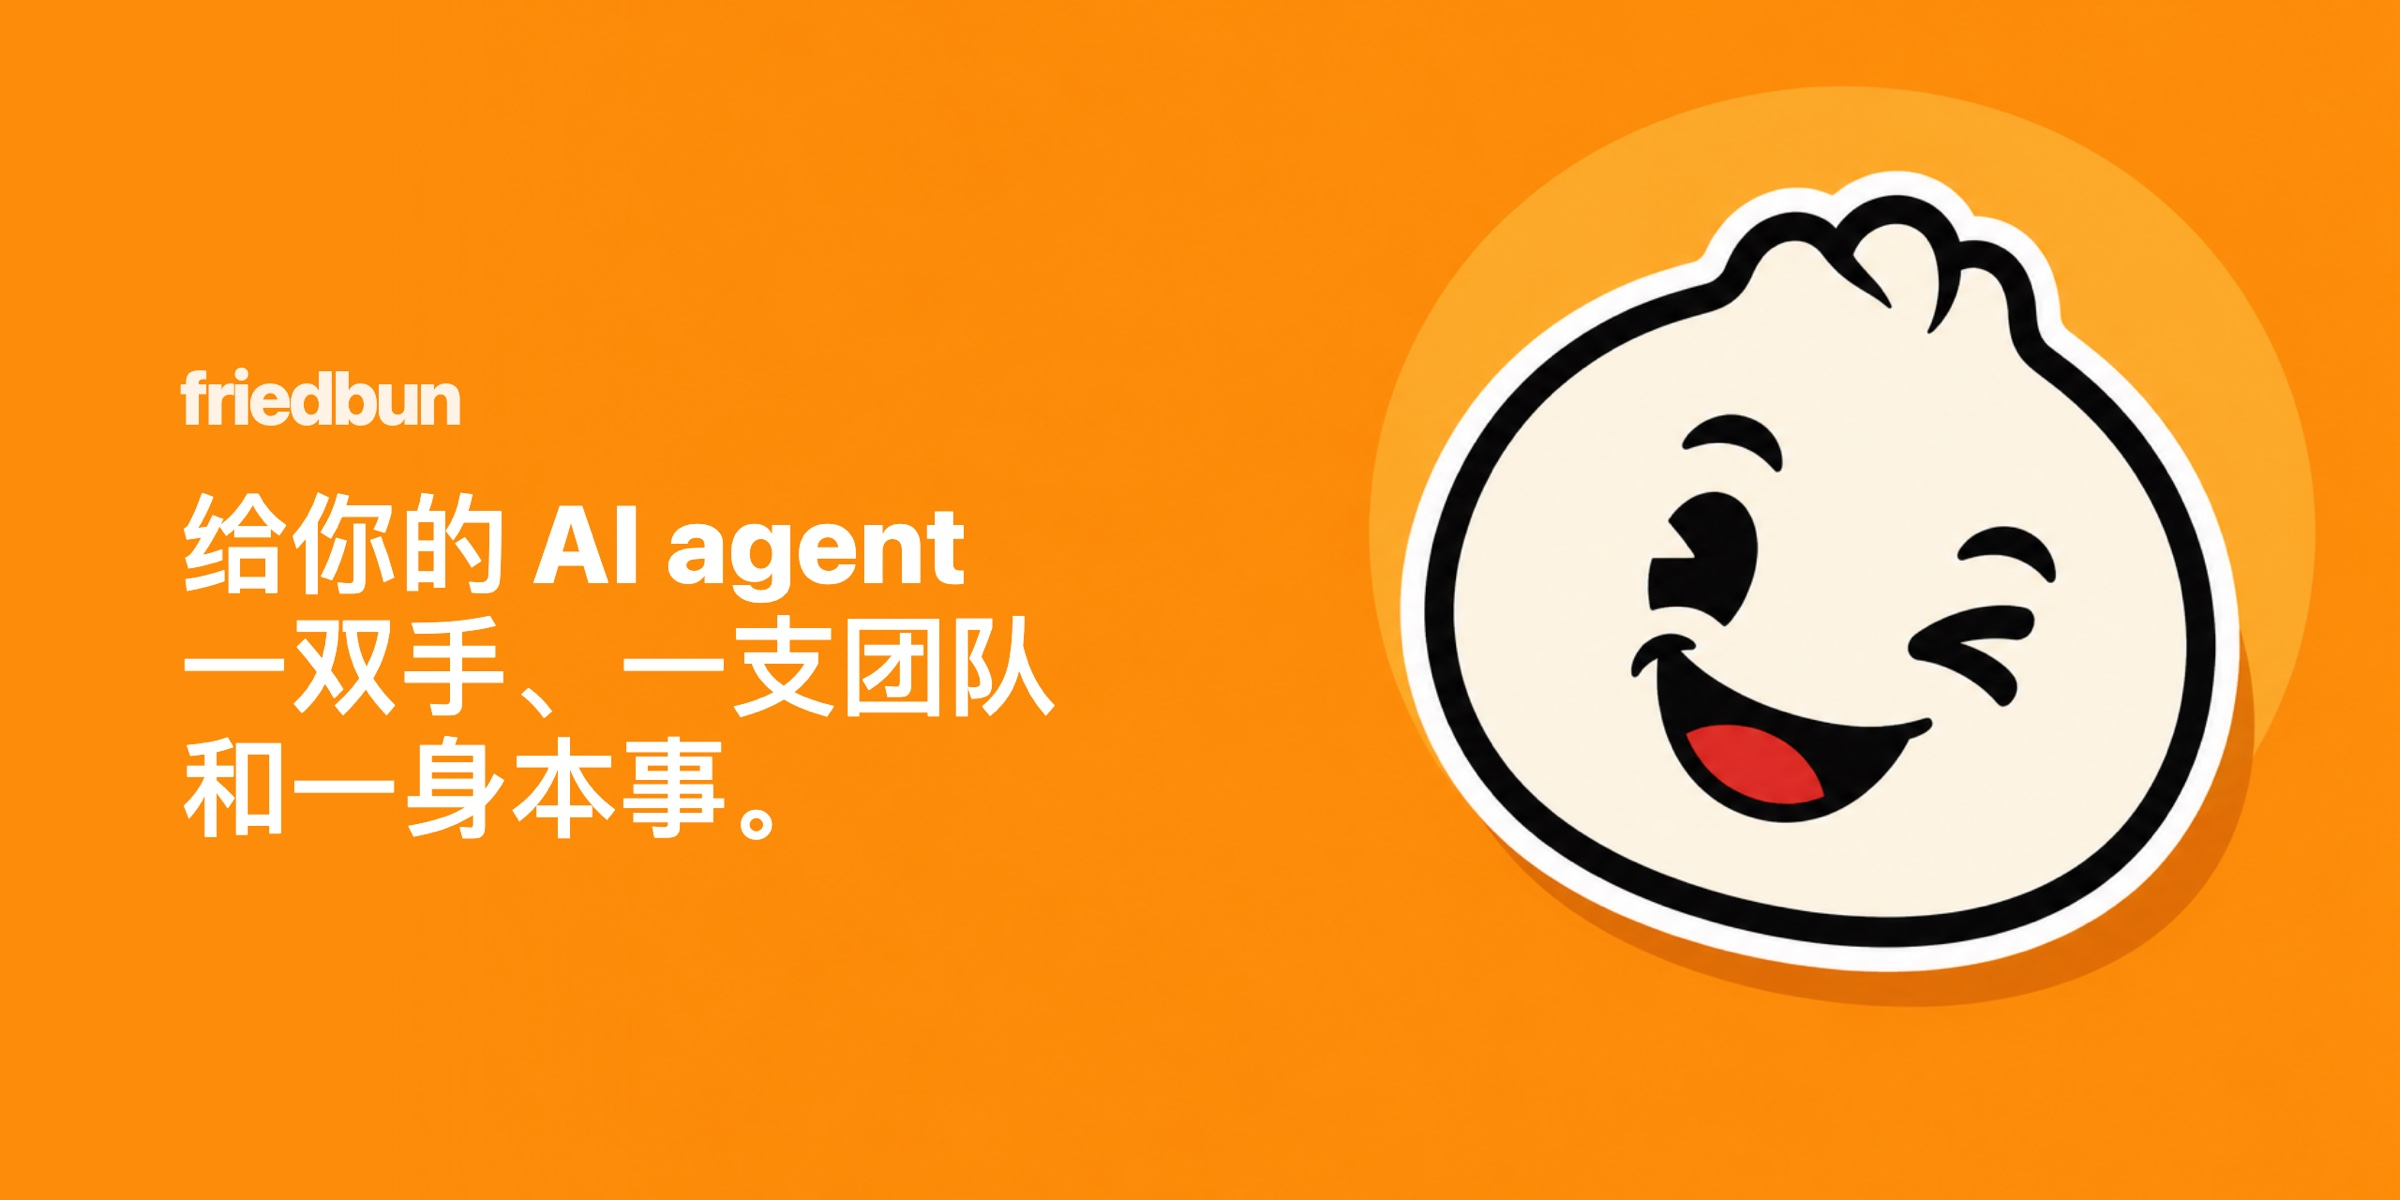
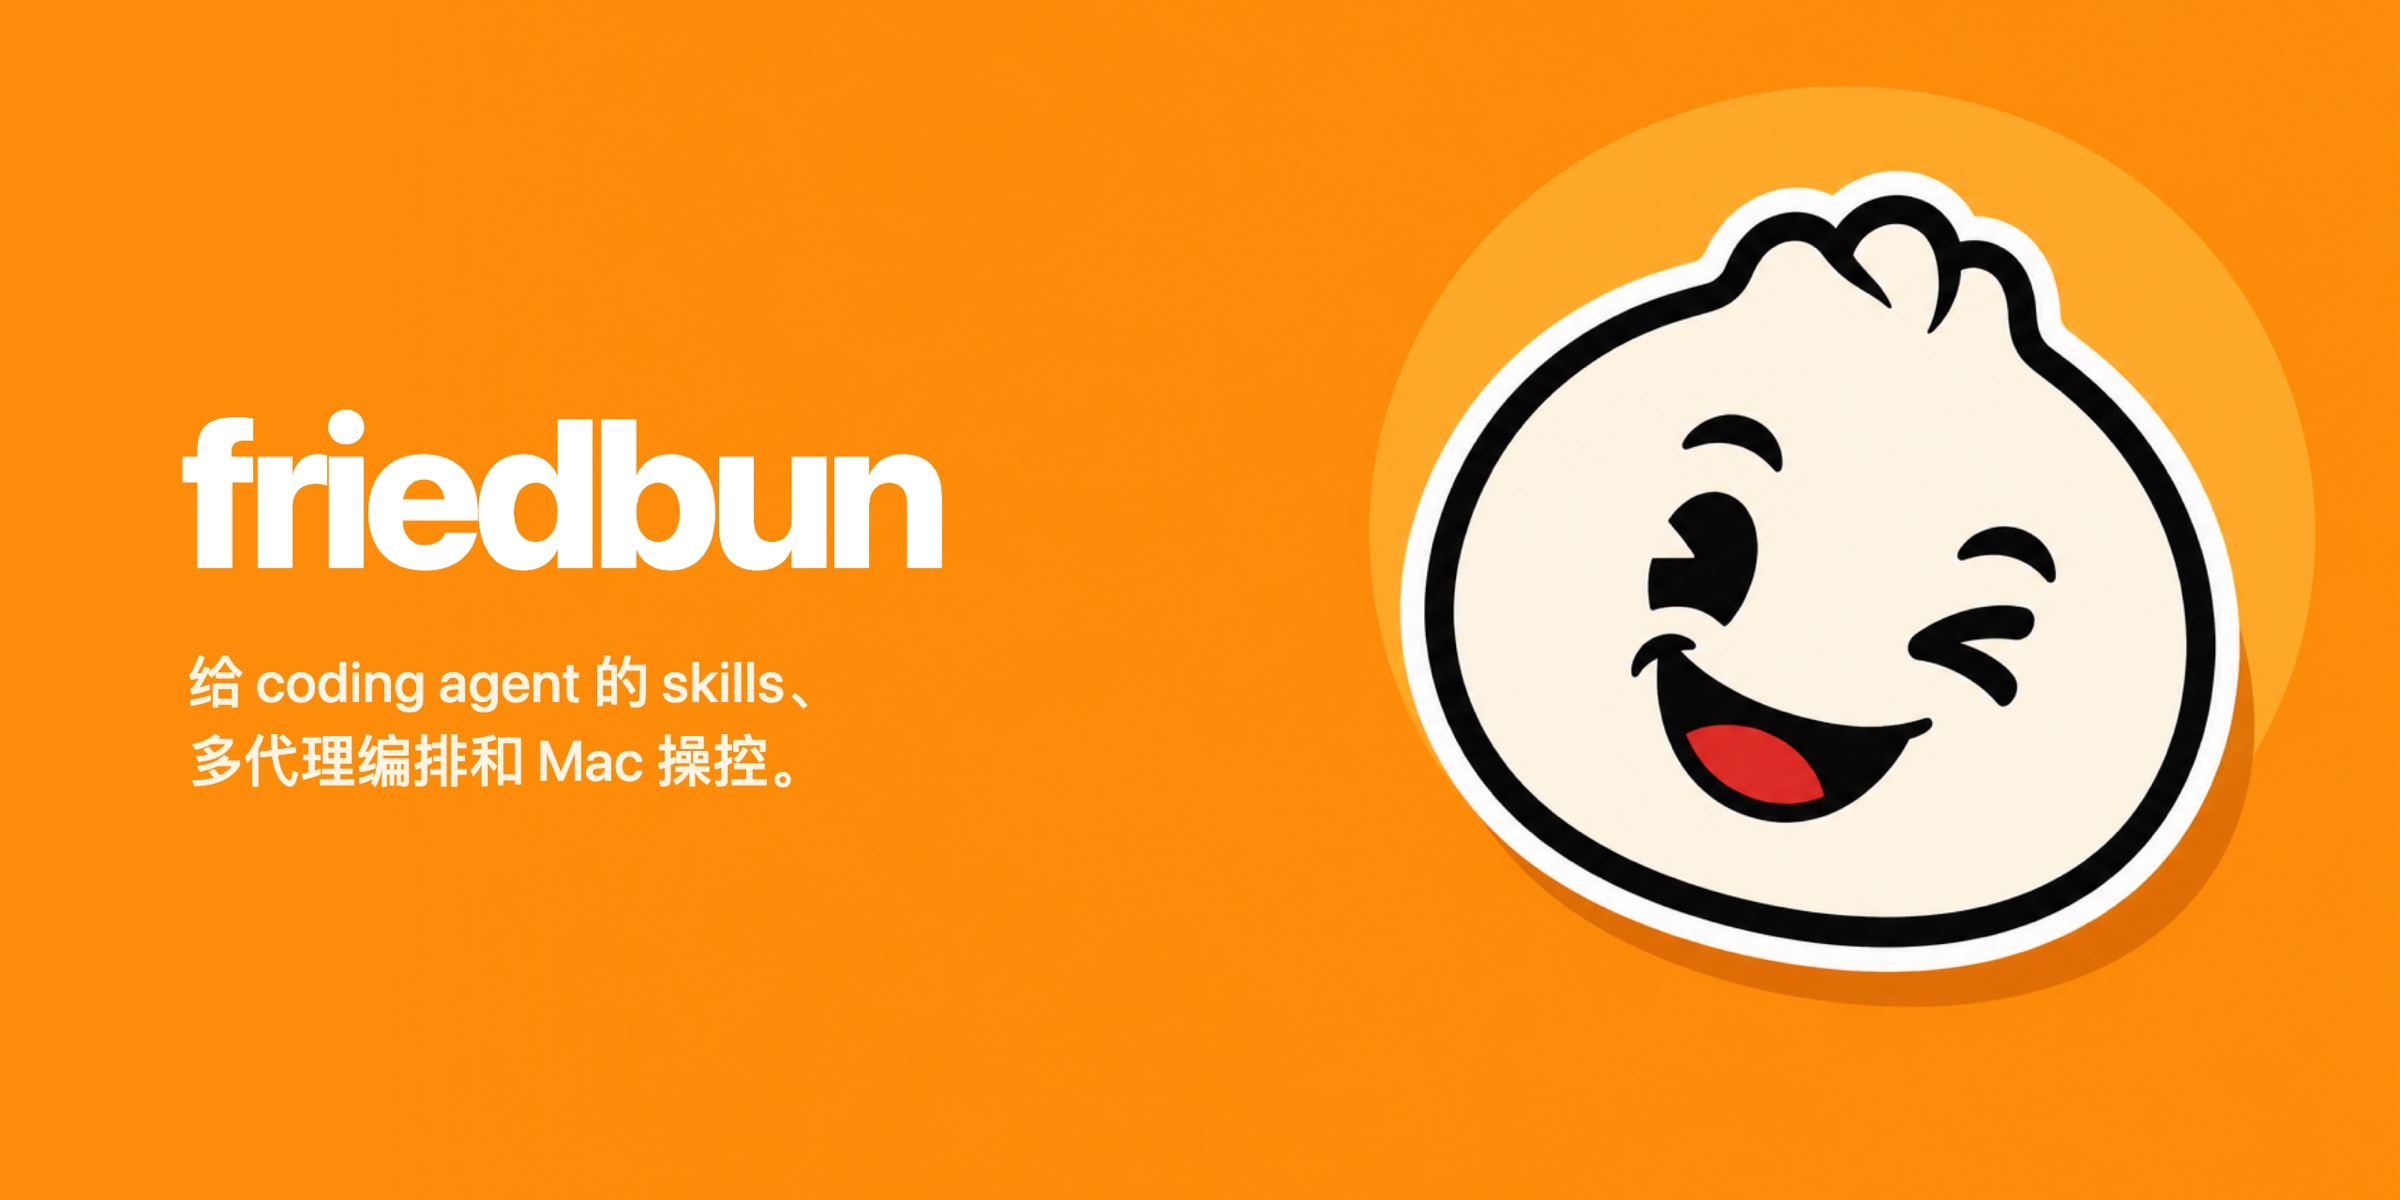
README：首屏 + 实际效果动图（bcu 操作计算器与文本编辑、FireCode）+ 按 skills 分组简介 + 折叠安装细节；头图换中性占位标题；bcu 动图改用系统自带应用重录

Changed region(s): [[0.0625, 0.3083, 0.4375, 0.7092]]

diff --git a/README.md b/README.md
@@ -1,49 +1,50 @@
-<p align="center"><img alt="friedbun — give your AI agent hands, a team and a playbook" src="assets/hero-en.jpg" width="100%"></p>
+<p align="center"><img alt="friedbun" src="assets/hero-en.jpg" width="100%"></p>
 
 <p align="center"><b>English</b> · <a href="README.zh-CN.md">中文</a></p>
 
-Skills, a multi-agent team and desktop control for your coding agent, set up from one link.
-
-**Just the skills**
+My coding-agent setup: 25 skills, multi-agent orchestration with FireCode, and an agent that can use Mac apps. Install just the skills, or let your agent set up the whole thing.
 
 ```bash
 npx skills add Suge8/friedbun
 ```
 
-**Everything** — paste this to your coding agent:
+For everything, paste this to your coding agent:
 
 ```text
 Clone https://github.com/Suge8/friedbun and set up this Mac by following its SETUP.md.
 ```
 
-## A playbook: 25 skills
+## In action
 
-<p align="center"><img alt="The 25 skills in six groups" src="assets/skills.jpg" width="100%"></p>
+The agent splits a dinner bill in Calculator and writes it down in TextEdit, using [bcu](https://github.com/Suge8/better-computer-use). The orange arrow is the agent's cursor. The whole clip runs in the background, and the real mouse doesn't move.
 
-Your agent picks up how I work: research from primary sources, write the failing test before the code, check UI against a taste guide, make images and demo GIFs like the ones on this page. Many of them kick in on their own when the task fits.
+<p align="center"><img alt="The agent's orange cursor works Calculator and TextEdit" src="assets/bcu-demo.gif" width="100%"></p>
 
-## A team: FireCode
+With [FireCode](https://github.com/Suge8/firecode), one agent hands work to several sub-agents running in parallel, each on its own model.
 
-<p align="center"><img alt="FireCode dispatching three sub-agents in parallel" src="https://raw.githubusercontent.com/Suge8/firecode/main/design/promo/hero.gif" width="100%"></p>
+<p align="center"><img alt="FireCode sending work to three sub-agents" src="https://raw.githubusercontent.com/Suge8/firecode/main/design/promo/hero.gif" width="100%"></p>
 
-One agent becomes a commander that hands work to sub-agents running in parallel, each on its own model. Several models review your change in parallel, and anything they fail goes straight back to be fixed. [FireCode on GitHub →](https://github.com/Suge8/firecode)
+## What's inside
 
-## Hands: bcu
+- **workflow**: research a question from primary sources, poke holes in a plan, build a change test-first, review a session afterwards.
+- **development**: tests, prototypes, architecture checks, sub-agent research, PR descriptions, releases.
+- **frontend**: a UI taste guide and a component picker.
+- **creative**: images, promo graphics and demo GIFs, product copy, social posts, video.
+- **operations**: use Mac apps (bcu) and the browser (better-browser-use), drive Herdr terminal panes, work on servers over SSH.
+- **web-search**: search the web and pull page text.
 
-<p align="center"><img alt="The bcu agent cursor scrolls a menu, picks an item, fills in a form and places an order in a Mac app" src="assets/bcu-demo.gif" width="100%"></p>
-
-Your agent clicks, types and scrolls through Mac apps by itself, so it can finish tasks in apps that have no API. It works in the background whenever the app allows, so your own mouse and keyboard stay yours. [bcu on GitHub →](https://github.com/Suge8/better-computer-use)
+Each skill is a folder under [`skills/`](skills). `workflow` started as a fork of [mattpocock/skills](https://github.com/mattpocock/skills).
 
 <details>
-<summary><b>Everything the setup installs</b></summary>
+<summary>What the full setup installs</summary>
 
-- **Coding agent**: [Pi](https://pi.dev) with FireCode, my settings, keybindings and model roles, plus `SYSTEM.md`, my system prompt. The prompt swaps in my tone and working habits, so your agent flags it first and you can skip it.
-- **Terminal**: [Herdr](https://herdr.dev) multiplexer, [Ghostty](https://ghostty.org), [Starship](https://starship.rs), fastfetch and a zsh snippet, all following the system light/dark theme.
-- **Desktop and web**: bcu, plus [agent-browser](https://github.com/vercel-labs/agent-browser) and [CloakBrowser](https://cloakbrowser.dev) in an isolated browser that never drives your everyday one.
-- **Skills**: [`skills/`](skills), linked to `~/.agents/skills`. `workflow` is forked from [mattpocock/skills](https://github.com/mattpocock/skills).
+- [Pi](https://pi.dev) coding agent with FireCode, my settings, keybindings and model roles, and my system prompt (`SYSTEM.md`). The prompt changes the agent's tone and habits, so your agent mentions it first and you can skip it.
+- Terminal: [Herdr](https://herdr.dev), [Ghostty](https://ghostty.org), [Starship](https://starship.rs), fastfetch and a zsh snippet.
+- bcu for Mac apps; [agent-browser](https://github.com/vercel-labs/agent-browser) and [CloakBrowser](https://cloakbrowser.dev) for the web, in a separate browser from the one you use.
+- The skills, linked to `~/.agents/skills`.
 
-Existing config files are backed up as `.bak` before anything changes. The agent stops for the steps only you can do: logging in, granting macOS permissions, pasting an API key. [SETUP.md](SETUP.md) lists every file it touches.
+Files you already have get a `.bak` copy before they change. The agent stops when it needs you: to log in, grant macOS permissions, or paste an API key. [SETUP.md](SETUP.md) lists every file it touches.
 
 </details>
 
-Requires an Apple Silicon Mac on macOS 14+ (the full setup also needs Homebrew and Node 22.13+). [MIT](LICENSE) · made by Fried Bun · [@Suge_dif](https://x.com/Suge_dif)
+Apple Silicon, macOS 14+ · [MIT](LICENSE) · by Fried Bun ([@Suge_dif](https://x.com/Suge_dif))

diff --git a/README.zh-CN.md b/README.zh-CN.md
@@ -1,49 +1,50 @@
-<p align="center"><img alt="friedbun：给你的 AI agent 一双手、一支团队和一身本事" src="assets/hero-zh.jpg" width="100%"></p>
+<p align="center"><img alt="friedbun" src="assets/hero-zh.jpg" width="100%"></p>
 
 <p align="center"><a href="README.md">English</a> · <b>中文</b></p>
 
-给 coding agent 装上 skills、多代理团队和桌面操控，一个链接装好。
-
-**只要 skills**
+我自己在用的 coding agent 配置：25 个 skill、FireCode 多代理编排，还能让 agent 操作 Mac 应用。可以只装 skills，也可以让 agent 把整套配好。
 
 ```bash
 npx skills add Suge8/friedbun
 ```
 
-**整套配置**：把这句话发给你的 coding agent：
+要整套配置，把这句话发给你的 coding agent：
 
 ```text
 克隆 https://github.com/Suge8/friedbun，按其中的 SETUP.md 把这台 Mac 配好。
 ```
 
-## 一身本事：25 个 skill
+## 实际效果
 
-<p align="center"><img alt="六组共 25 个 skill" src="assets/skills.jpg" width="100%"></p>
+agent 用 [bcu](https://github.com/Suge8/better-computer-use) 在计算器里算账单分摊，再写进文本编辑。橙色箭头是 agent 的光标。这段录屏全程在后台操作，真实鼠标没有动。
 
-agent 学会我的干活方式：查一手资料、先写会失败的测试再写代码、按品味指南检查界面、做出这页上这样的图和演示动图。很多 skill 遇到合适的任务会自己启用。
+<p align="center"><img alt="agent 的橙色光标操作计算器和文本编辑" src="assets/bcu-demo.gif" width="100%"></p>
 
-## 一支团队：FireCode
+用 [FireCode](https://github.com/Suge8/firecode)，一个 agent 把任务派给几个并行的子代理，每个子代理用自己的模型。
 
-<p align="center"><img alt="FireCode 并行派出三个子代理" src="https://raw.githubusercontent.com/Suge8/firecode/main/design/promo/hero.zh.gif" width="100%"></p>
+<p align="center"><img alt="FireCode 把任务派给三个子代理" src="https://raw.githubusercontent.com/Suge8/firecode/main/design/promo/hero.zh.gif" width="100%"></p>
 
-一个 agent 变成指挥官，把任务派给并行干活的子代理，每个子代理用自己的模型。多个模型并行审查你的改动，没通过的地方直接退回去修。[FireCode 仓库 →](https://github.com/Suge8/firecode)
+## 里面有什么
 
-## 一双手：bcu
+- **workflow**：查一手资料、挑计划的毛病、先写测试再实现、事后复盘一次会话。
+- **development**：测试、原型、架构体检、子代理调研、PR 描述、发版。
+- **frontend**：界面品味指南和组件选型表。
+- **creative**：出图、宣传图和演示动图、产品文案、社媒帖、视频。
+- **operations**：操作 Mac 应用（bcu）和浏览器（better-browser-use），控制 Herdr 终端窗格，通过 SSH 管服务器。
+- **web-search**：联网搜索、抓网页正文。
 
-<p align="center"><img alt="bcu 的 agent 光标在 Mac 应用里滚动菜单、选中商品、填表并下单" src="assets/bcu-demo.gif" width="100%"></p>
-
-agent 自己在 Mac 应用里点击、输入、滚动，没有 API 的应用也能把活干完。应用允许时它在后台操作，你的鼠标键盘照常归你用。[bcu 仓库 →](https://github.com/Suge8/better-computer-use)
+每个 skill 是 [`skills/`](skills) 下的一个文件夹。`workflow` 最早分叉自 [mattpocock/skills](https://github.com/mattpocock/skills)。
 
 <details>
-<summary><b>整套配置会装什么</b></summary>
+<summary>整套配置会装什么</summary>
 
-- **Coding agent**：[Pi](https://pi.dev) 加 FireCode，我的设置、快捷键和模型角色，以及我的系统提示词 `SYSTEM.md`。它会把语气和工作习惯换成我的，agent 会先提醒你，不想要可以跳过。
-- **终端**：[Herdr](https://herdr.dev) 终端复用、[Ghostty](https://ghostty.org)、[Starship](https://starship.rs)、fastfetch 和一段 zsh 配置，全部跟随系统明暗。
-- **桌面与网页**：bcu，以及 [agent-browser](https://github.com/vercel-labs/agent-browser) 和 [CloakBrowser](https://cloakbrowser.dev)，只在隔离浏览器里操作，不碰你日常用的浏览器。
-- **Skills**：[`skills/`](skills)，链接到 `~/.agents/skills`。`workflow` 分叉自 [mattpocock/skills](https://github.com/mattpocock/skills)。
+- [Pi](https://pi.dev) coding agent 加 FireCode，我的设置、快捷键、模型角色，以及我的系统提示词 `SYSTEM.md`。它会改变 agent 的语气和习惯，所以 agent 会先提醒你，不想要可以跳过。
+- 终端：[Herdr](https://herdr.dev)、[Ghostty](https://ghostty.org)、[Starship](https://starship.rs)、fastfetch 和一段 zsh 配置。
+- 操作 Mac 应用的 bcu；操作网页的 [agent-browser](https://github.com/vercel-labs/agent-browser) 和 [CloakBrowser](https://cloakbrowser.dev)，用的是单独的浏览器，不碰你平时用的那个。
+- skills，链接到 `~/.agents/skills`。
 
-改动已有配置前先留一份 `.bak`。登录、给 macOS 授权、填 API key 这几步只能你本人做，agent 会停下等你。[SETUP.md](SETUP.md) 列出了它改动的每个文件。
+你已有的文件改动前会先留一份 `.bak`。需要你本人的时候 agent 会停下：登录、给 macOS 授权、填 API key。[SETUP.md](SETUP.md) 列出了它改动的每个文件。
 
 </details>
 
-需要 Apple Silicon Mac、macOS 14 及以上（整套配置还需要 Homebrew 和 Node 22.13+）。[MIT](LICENSE) · 作者 Fried Bun · [@Suge_dif](https://x.com/Suge_dif)
+Apple Silicon、macOS 14+ · [MIT](LICENSE) · 作者 Fried Bun（[@Suge_dif](https://x.com/Suge_dif)）
